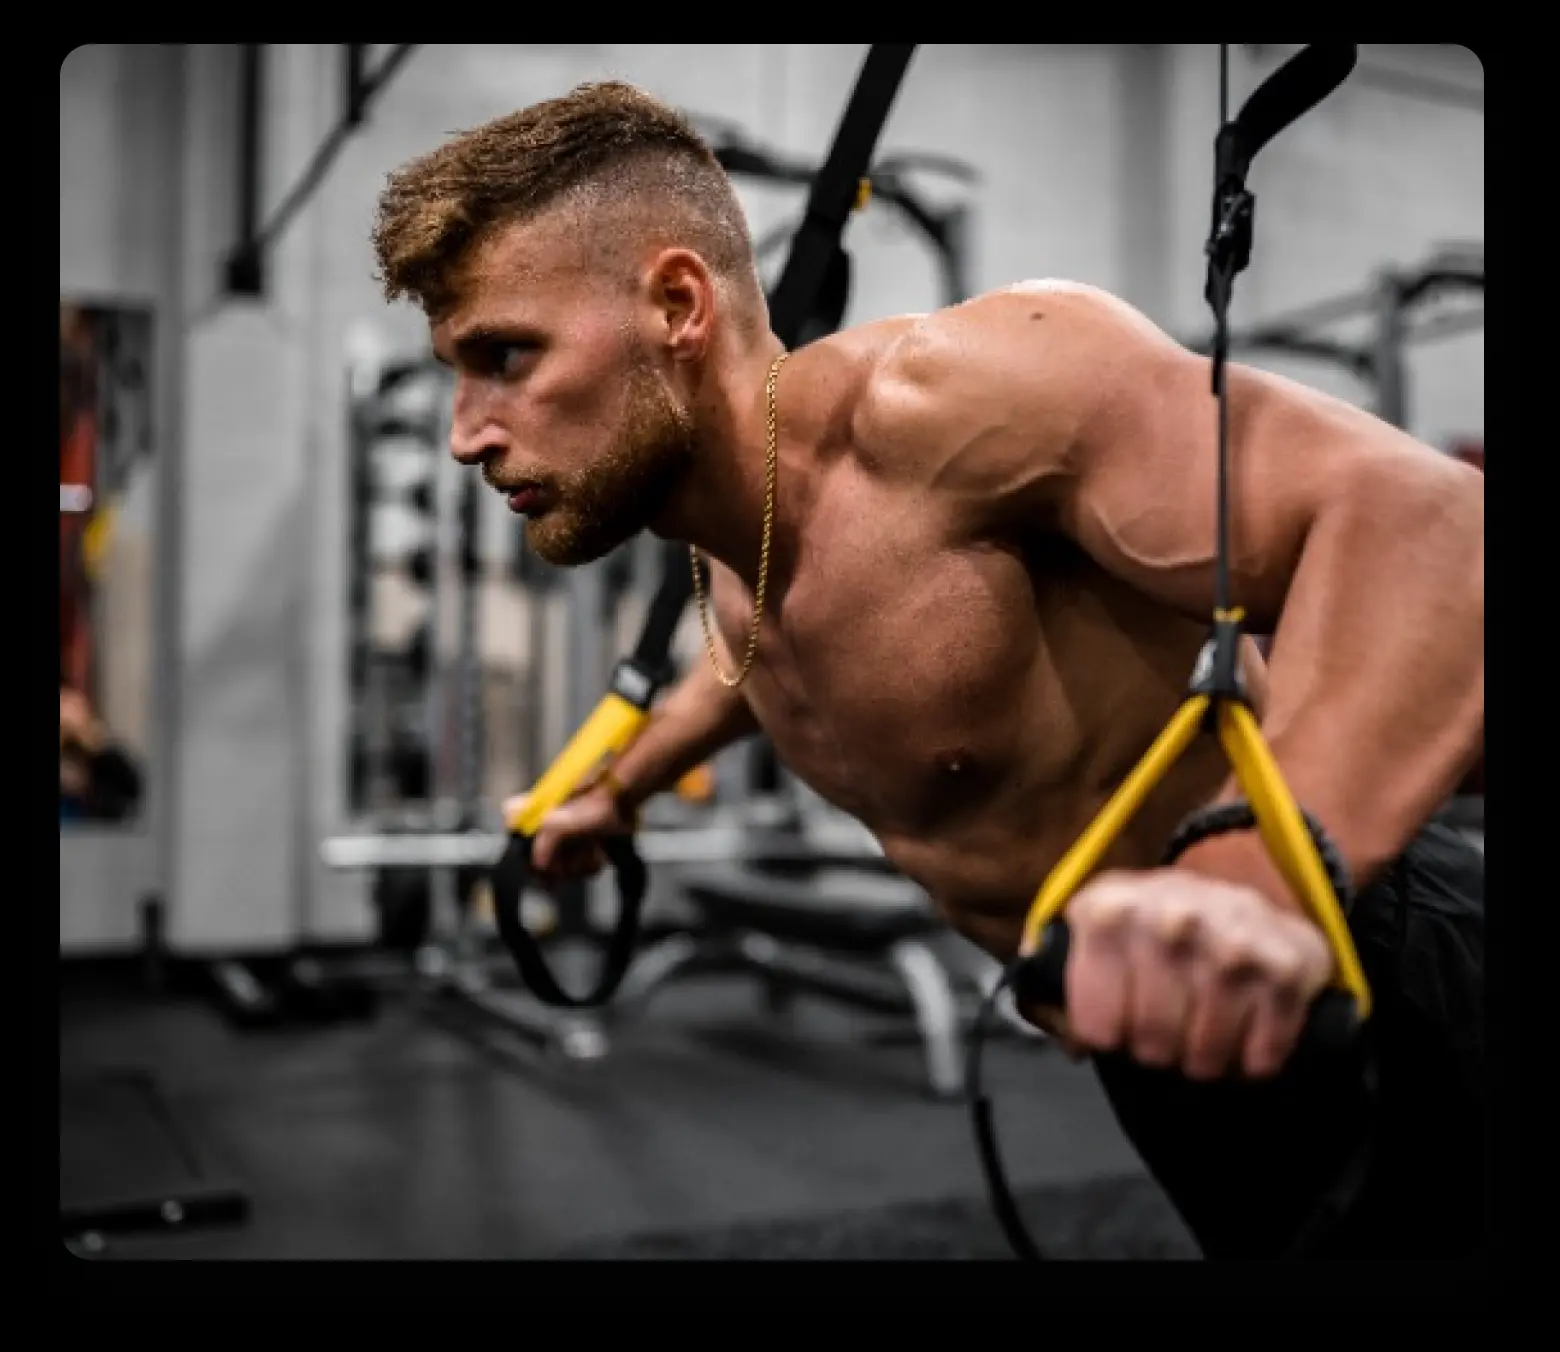
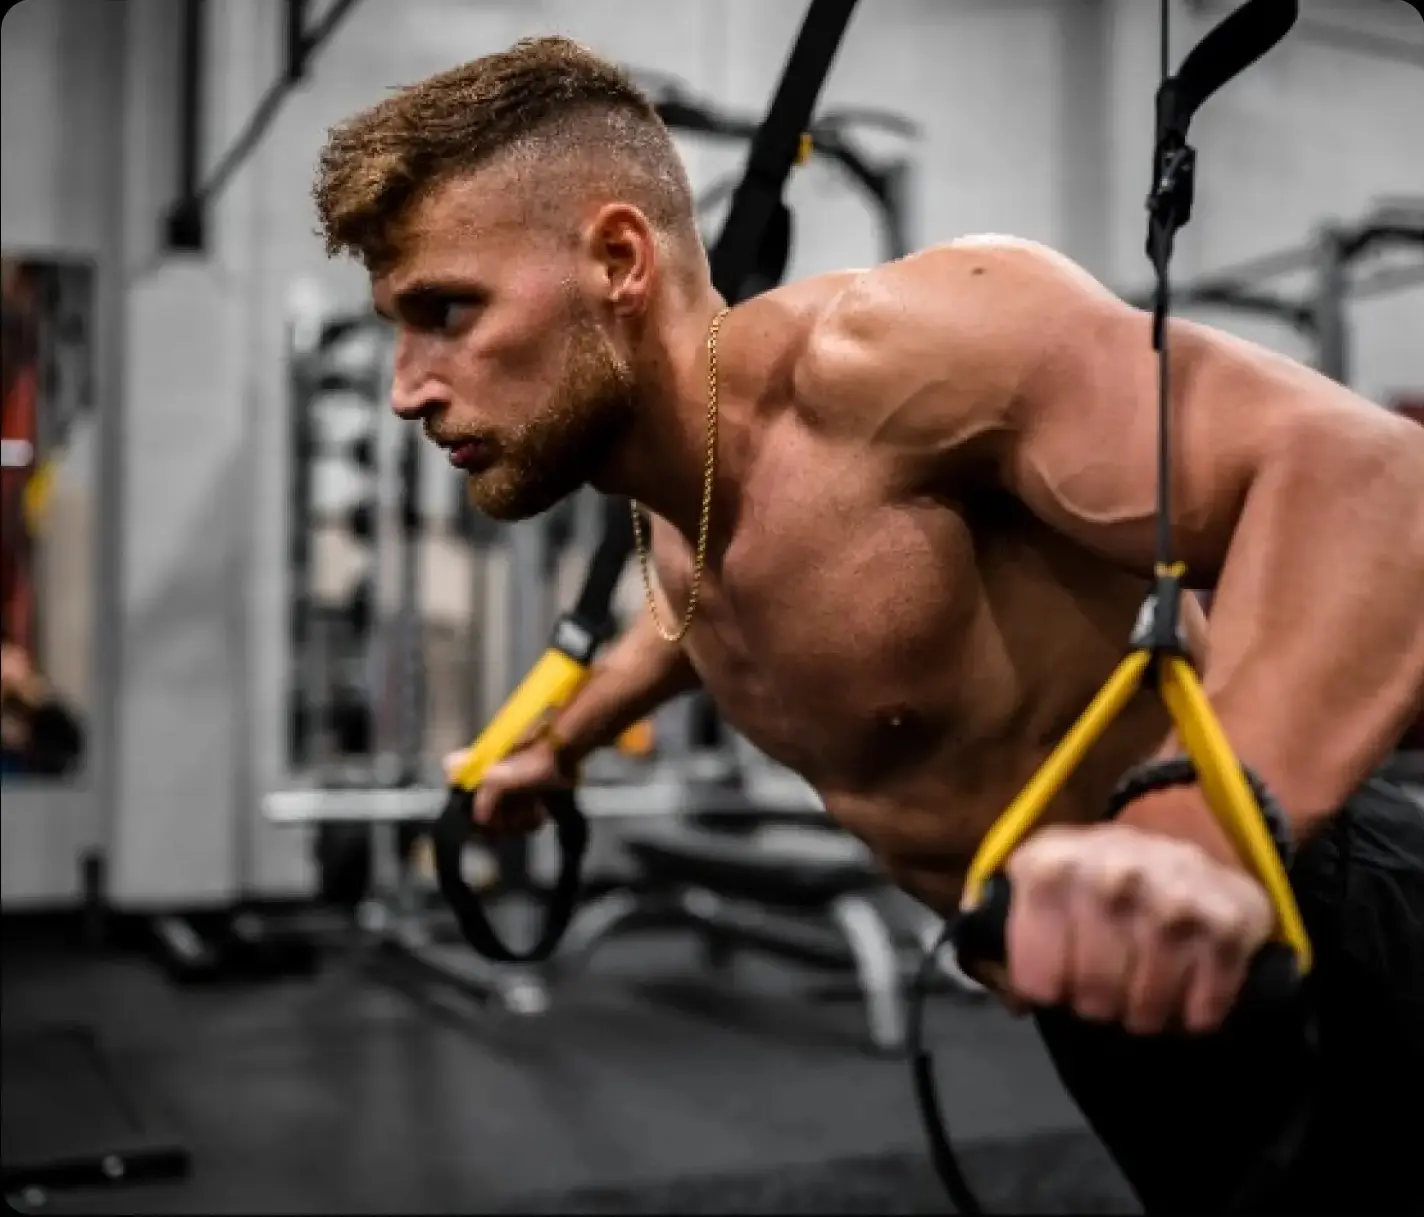
final

diff --git a/about.css b/about.css
@@ -134,6 +134,7 @@ img {
 
 .woman {
     position: absolute;
+    border-radius: 8px;
     width: 40%;
     margin-top: 10%;
     left: 10%;
@@ -145,9 +146,10 @@ img {
 
 .man {
     position: absolute;
+    border-radius: 8px;
     width: 28%;
     left: 30%;
-    margin-top: 34%;
+    margin-top: 32.6%;
 }
 
 .man2 {
@@ -248,6 +250,12 @@ img {
     position: relative;
     width: 30%;
     margin-left: 4.2%;
+}
+
+.tracy>img,
+.alex>img,
+.jennifer>img {
+    border-radius: 8px;
 }
 
 .alex-text,
@@ -598,6 +606,10 @@ img {
         margin-left: 5.5%;
     }
 
+    .mobile-alex>img {
+        border-radius: 8px;
+    }
+
     .alex-text {
         position: absolute;
         top: 70%;
@@ -713,17 +725,19 @@ img {
     .woman2 {
         display: block;
         position: absolute;
-        width: 70%;
-        margin-left: 2%;
-        margin-top: 13%;
+        border-radius: 8px;
+        width: 60%;
+        margin-left: 3%;
+        margin-top: 19%;
     }
 
     .man2 {
         display: block;
         position: absolute;
-        width: 65%;
-        margin-left: 35%;
-        margin-top: 44%;
+        border-radius: 8px;
+        width: 60%;
+        margin-left: 37%;
+        margin-top: 45.5%;
     }
 
     .about-fitpro {

diff --git a/booking-style.css b/booking-style.css
@@ -85,6 +85,10 @@ img {
     margin-bottom: 4%;
 }
 
+.image>img {
+    border-radius: 8px;
+}
+
 .mobile-img1 {
     display: none;
 }
@@ -192,6 +196,12 @@ hr {
     flex-wrap: wrap;
     width: 30%;
     margin-bottom: 2%;
+}
+
+.alex>img,
+.jennifer>img,
+.mark>img {
+    border-radius: 8px;
 }
 
 .trend-inst {
